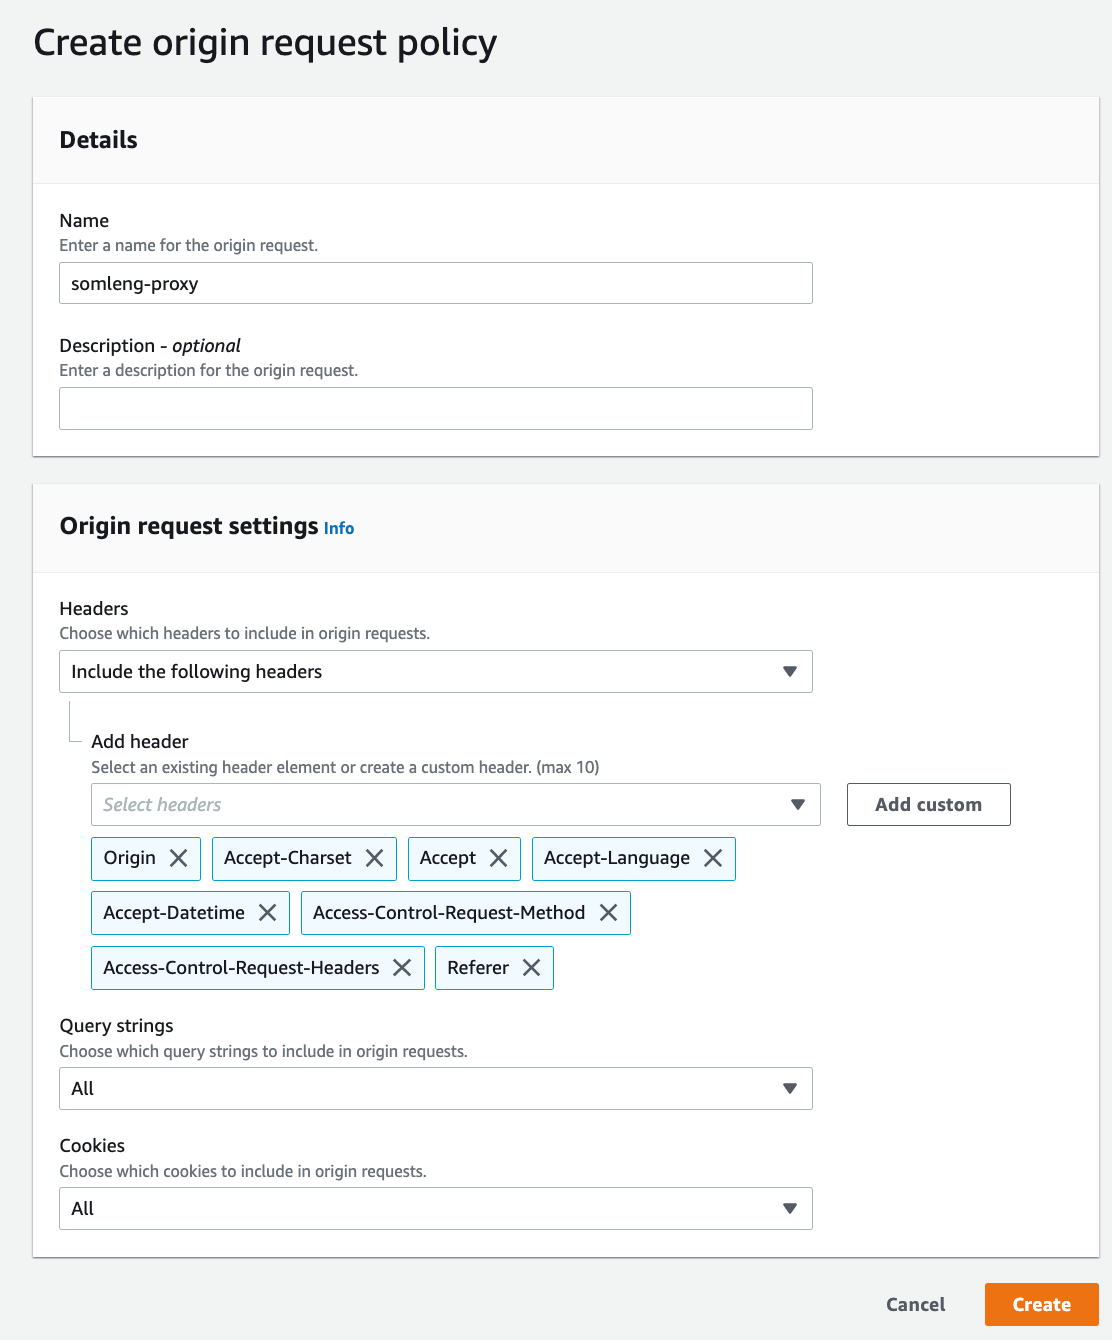
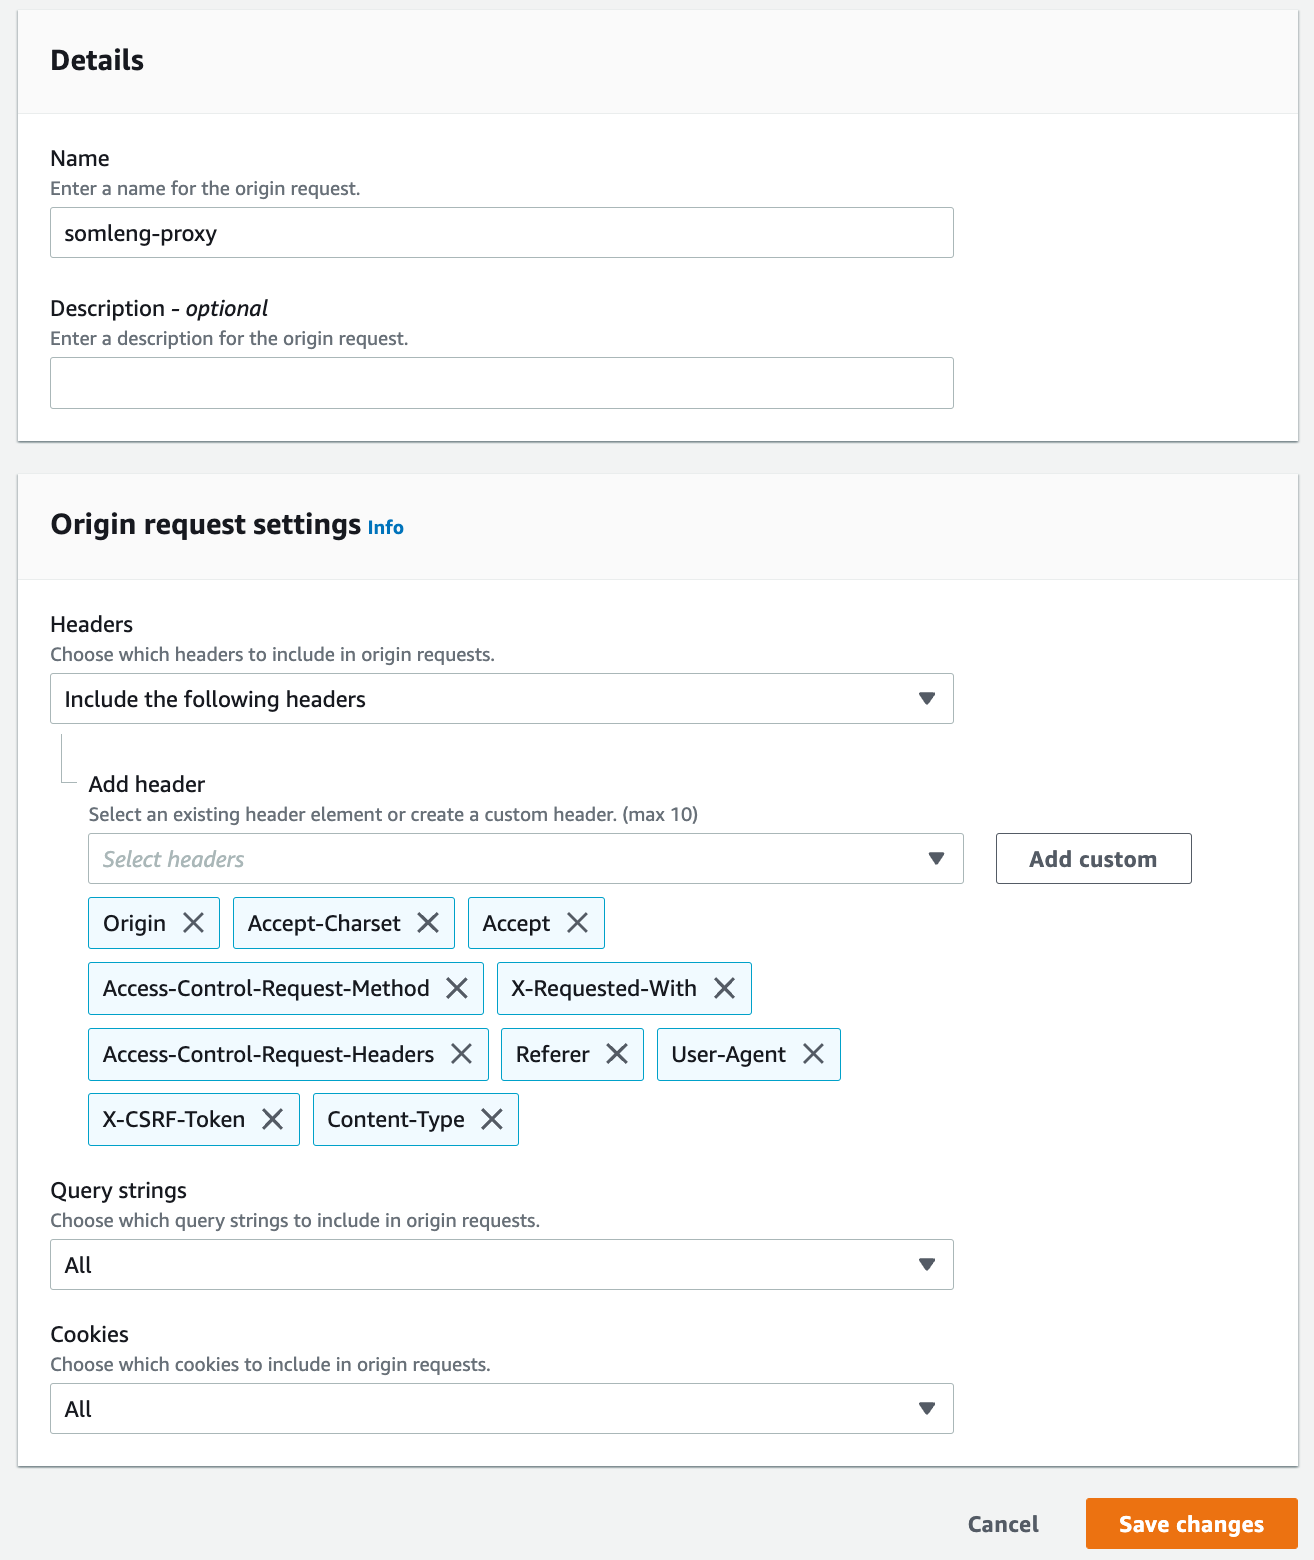
Update carrier doc settings

diff --git a/public/website/carrier_documentation.html b/public/website/carrier_documentation.html
@@ -607,6 +607,11 @@ module "somleng_proxy_dashboard" {
     }
   ]
 
+  allowed_origin_request_headers = [
+    "X-CSRF-Token",
+    "X-Requested-With"
+  ]
+
   zone_id = aws_route53_zone.example_com.zone_id # Optional. Leave blank if not using route53.
   certificate_arn = "existing-certificate-arn" # Optional. Leave blank to create a new certificate.
 }
@@ -827,10 +832,16 @@ module "somleng_proxy_api" {
                                       <strong>Referer</strong>
                                     </li>
                                     <li>
-                                      <strong>Accept-Language</strong>
+                                      <strong>User-Agent</strong>
                                     </li>
                                     <li>
-                                      <strong>Accept-Datetime</strong>
+                                      <strong>Content-Type</strong>
+                                    </li>
+                                    <li>
+                                      <strong>X-CSRF-Token</strong>
+                                    </li>
+                                    <li>
+                                      <strong>X-Requested-With</strong>
                                     </li>
                                   </ul>
                                 </li>
